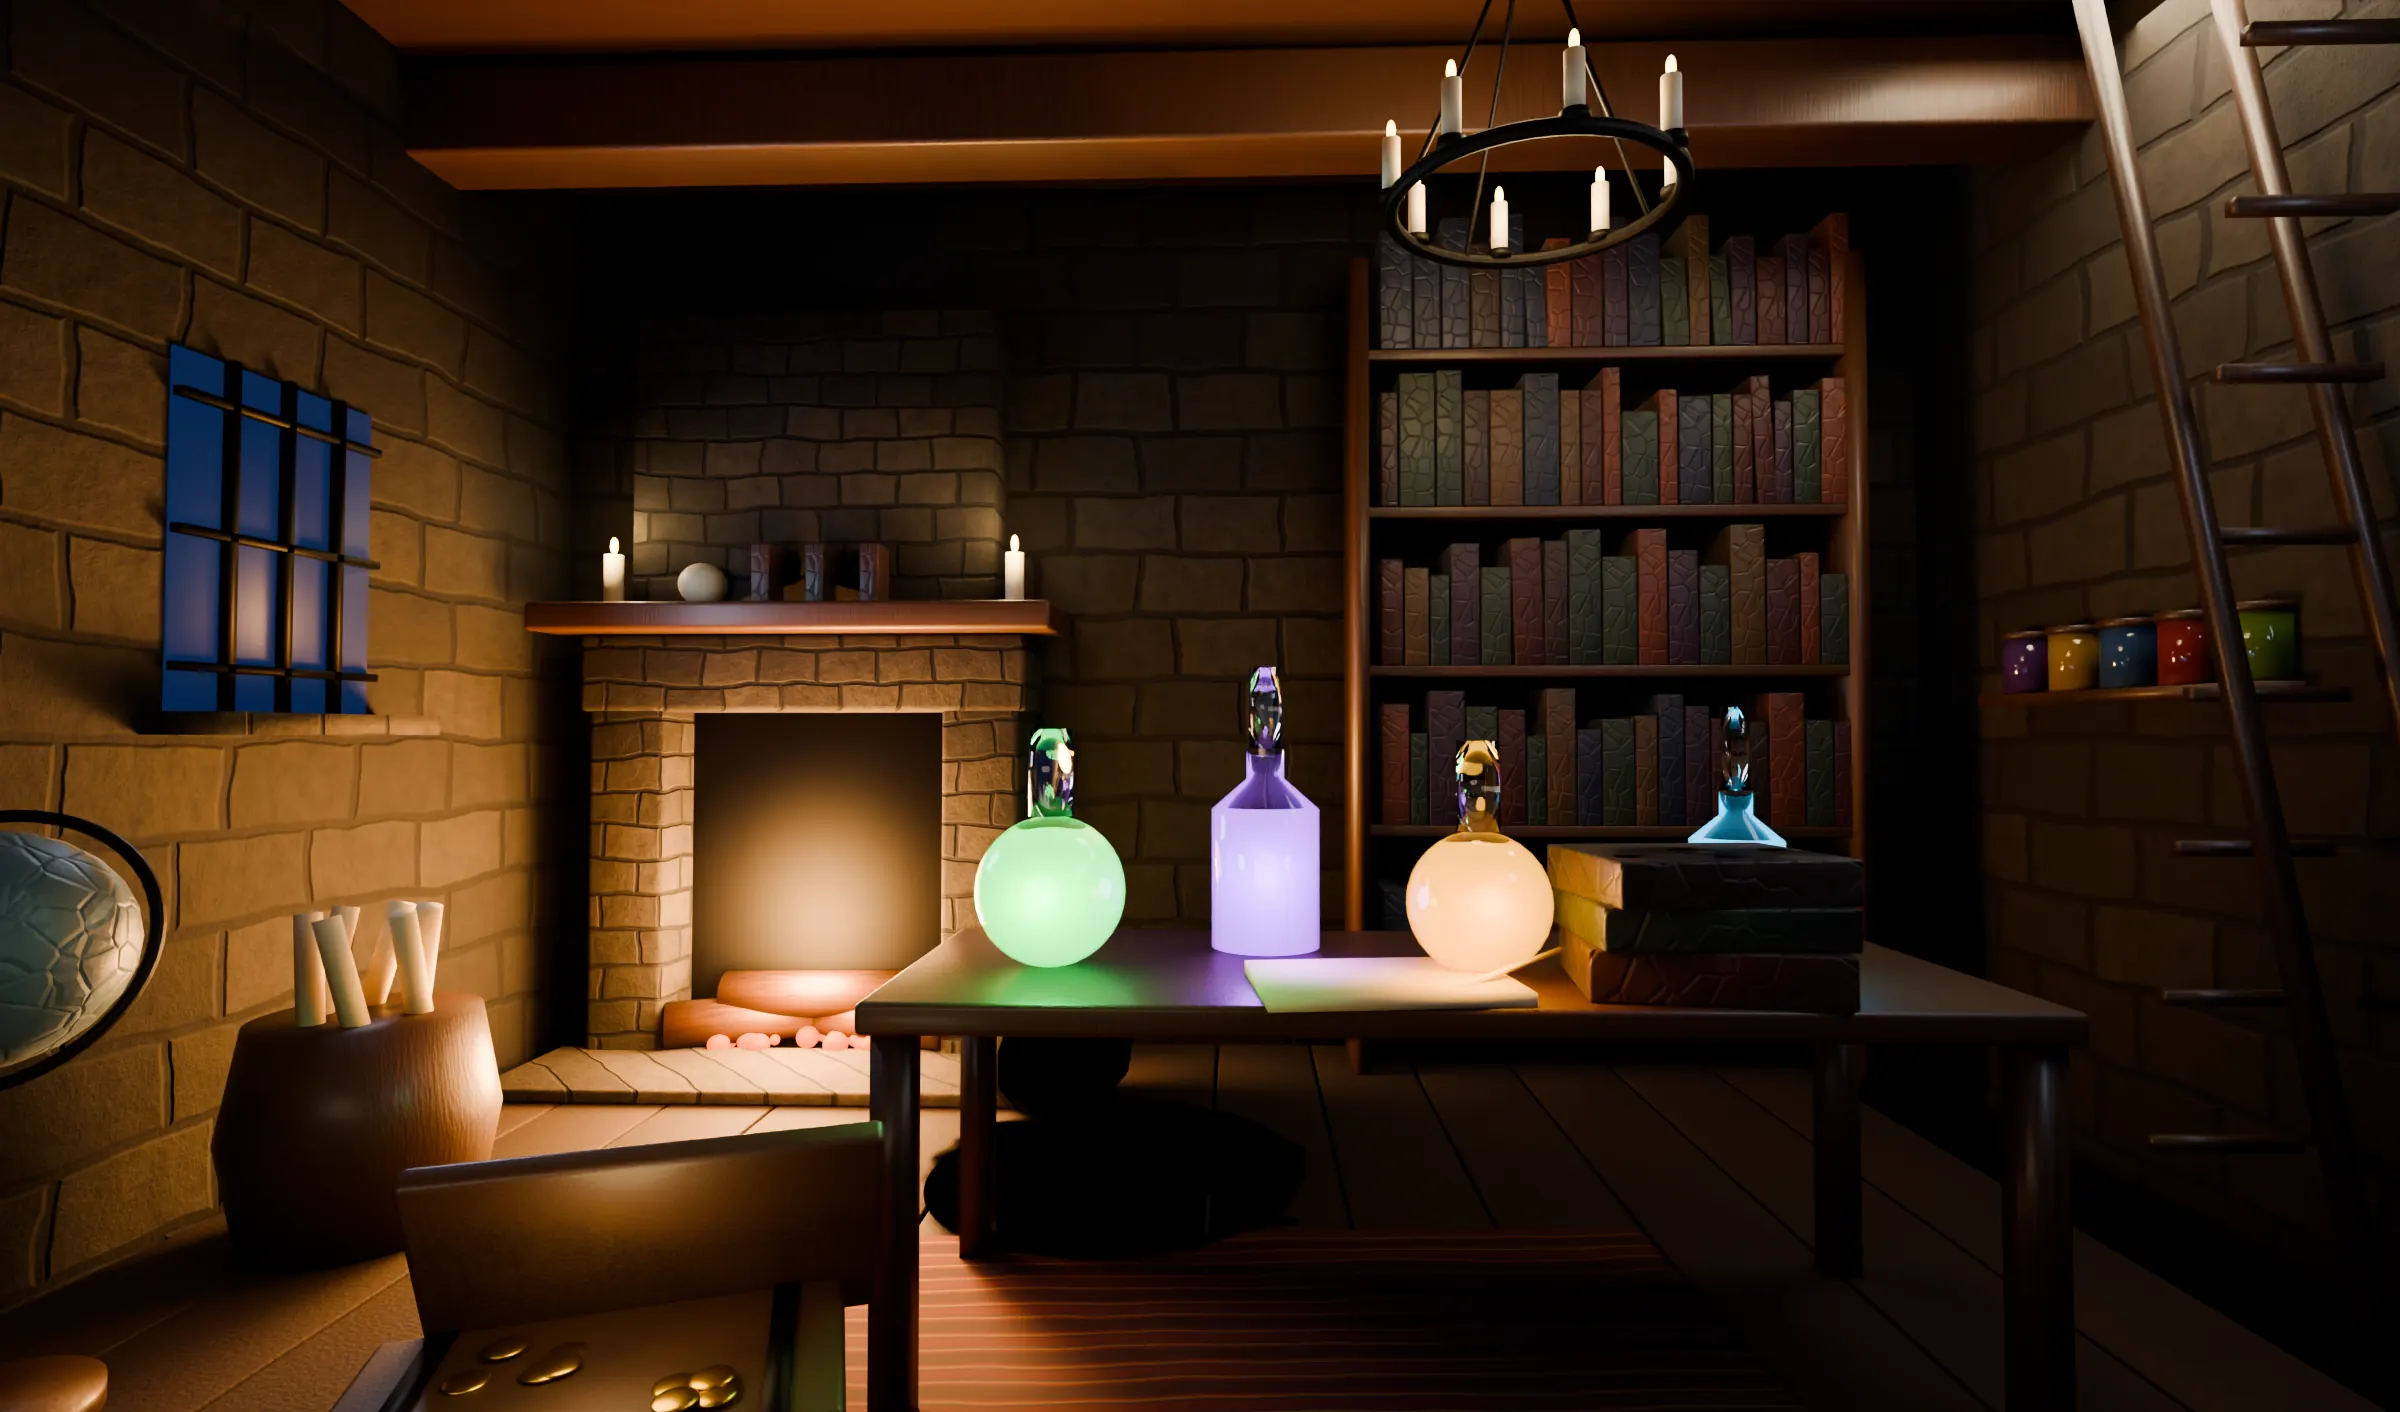
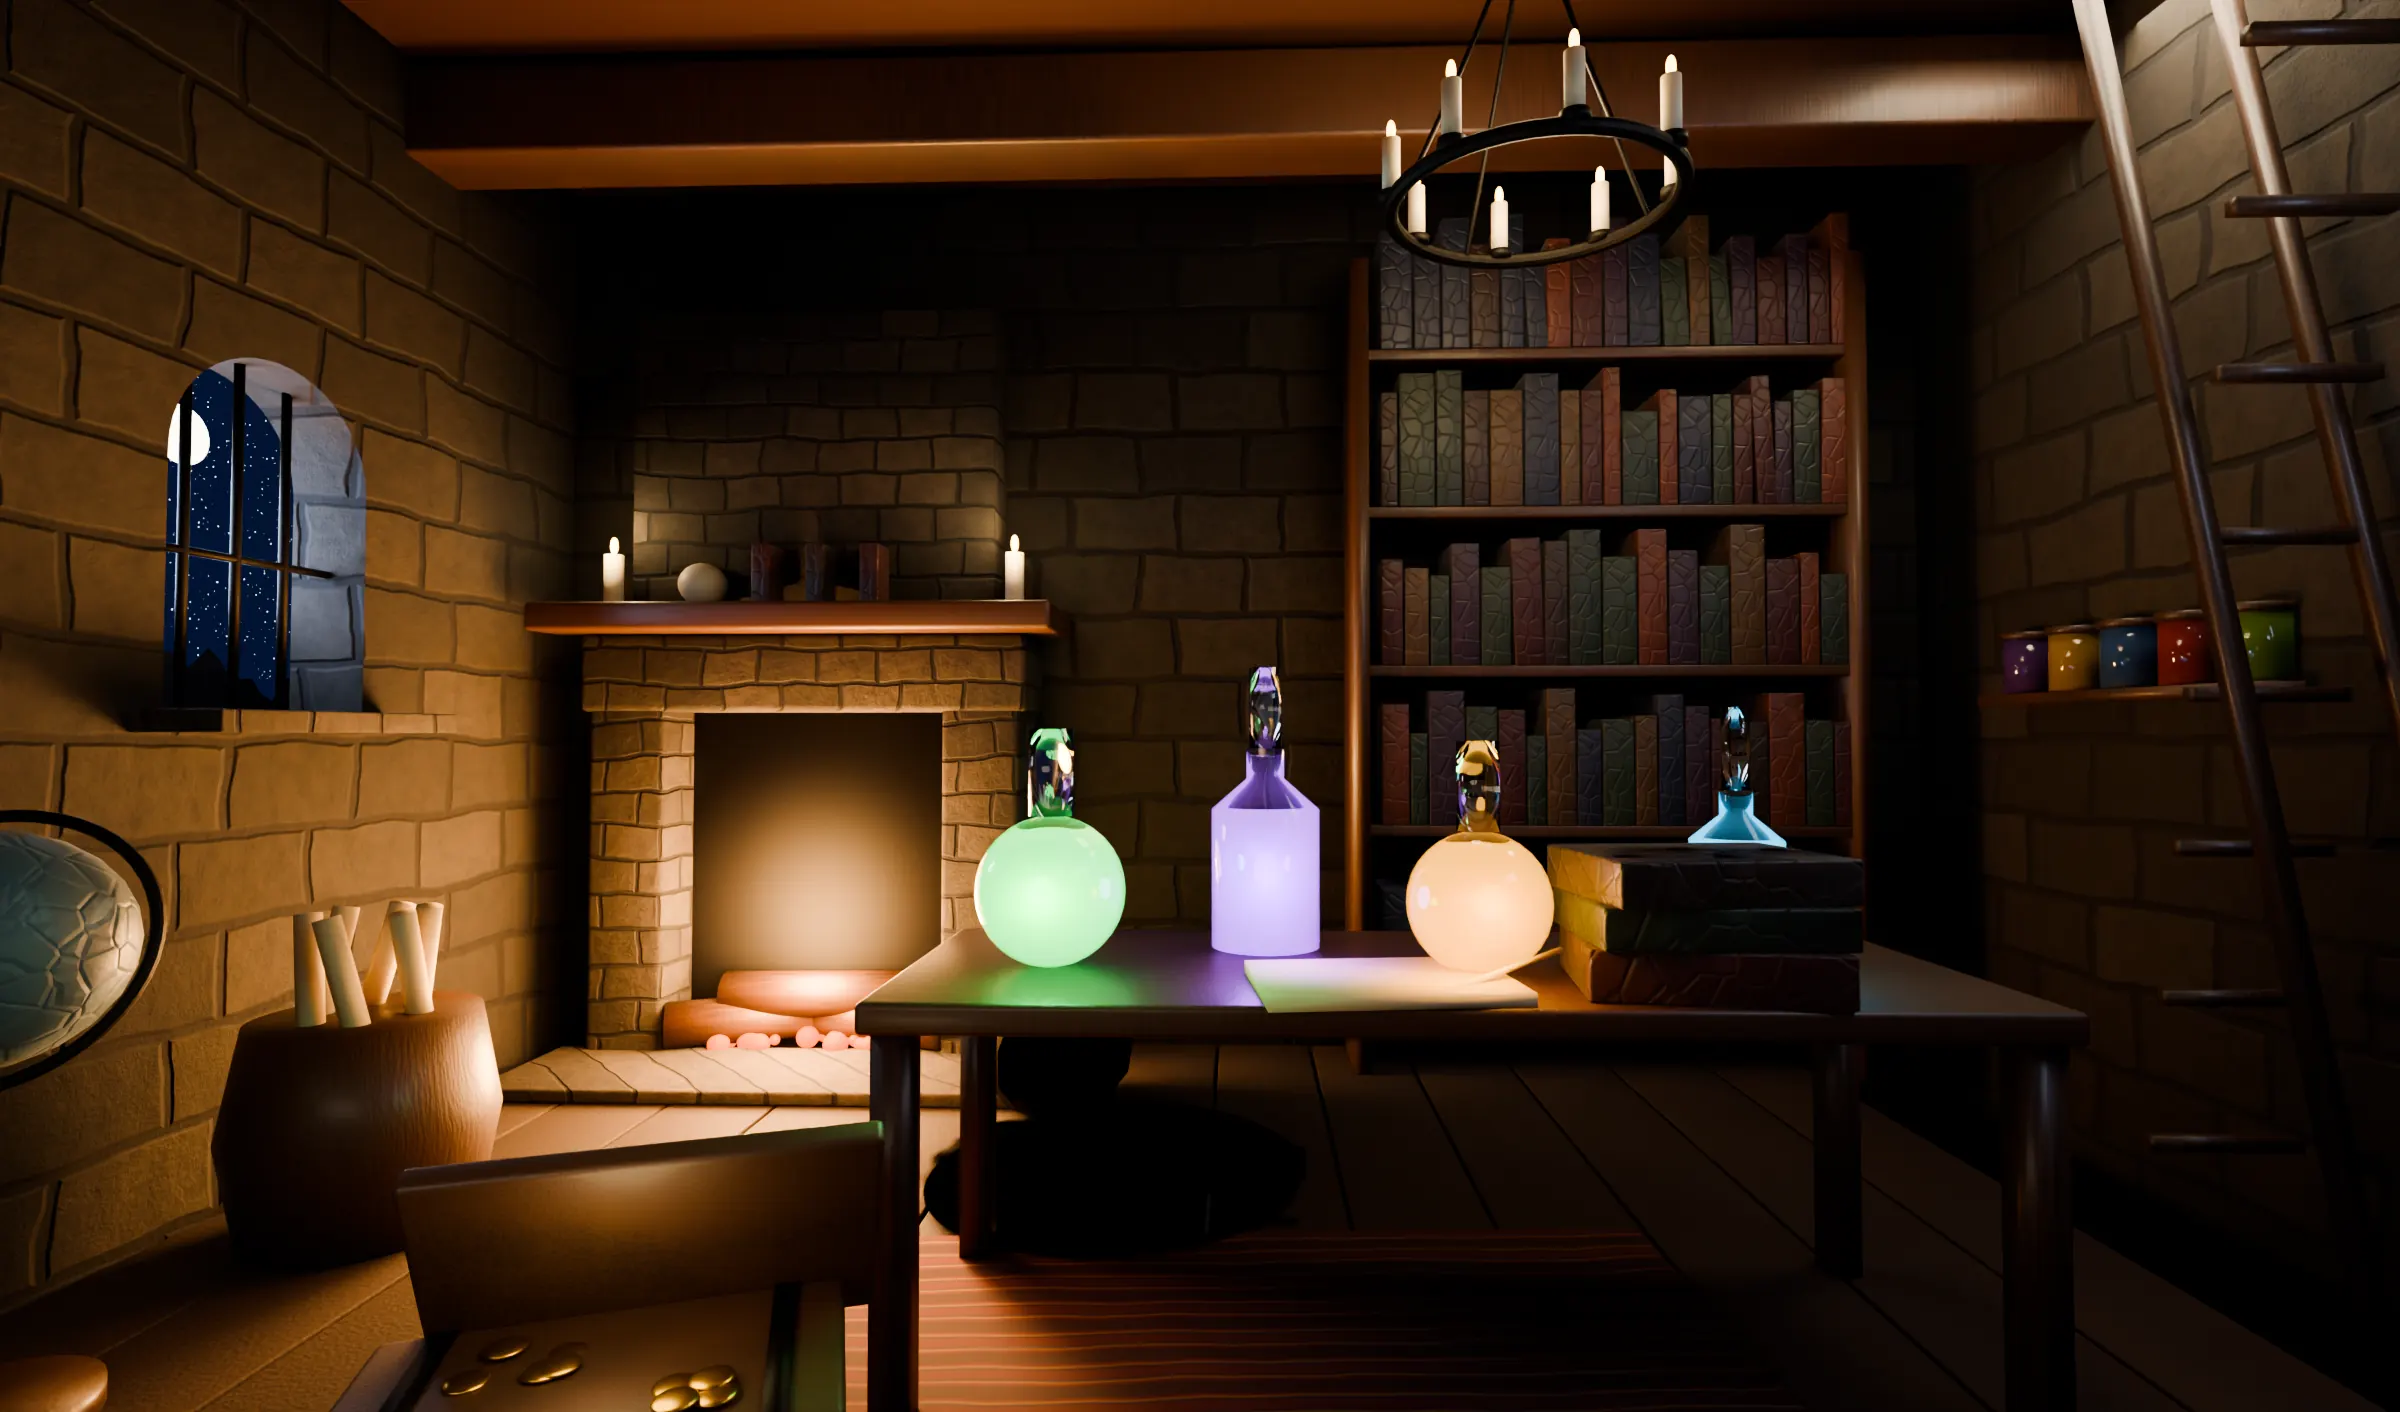
Lair window, a first entrance to the dungeon, and a clearer dungeon title
- The lair's window is now an arched opening cut through the stone wall, with iron bars, a sill,
  a starry night sky with the moon and hills beyond, and moonlight falling through the bars
- The first switch to the dungeon look gets its own entrance: a ring of green arcane fire closes on
  the name, the ember at its centre becomes torchlight, and a ring of fire opens on the dungeon
- In the dungeon look the name is set like an illuminated manuscript: a gilded capital on oxblood
  and the rest in dark ink, larger and further left; it fits narrow phones too

Claude-Session: https://claude.ai/code/session_01AorV6A1RpKrV1UJqfhHdYQ

diff --git a/game.js b/game.js
@@ -1,7 +1,7 @@
 /* Galef's hidden game. Loaded on demand by index.html the first time the game needs it, so it costs the app nothing until then.
    It uses the app's own helpers (S, $, save, render, openSheet, closeSheet, toast, game, saveGame, ...). */
 /* global S, $, esc, norm, uid, clone, save, render, openSheet, closeSheet, toast, cleanItem, live,
-   game, gHas, saveGame, gCandidates, gLinesFetch, gLineGaveUp, gFallbackLine, canAsk, lookNow, setLook, openLooks, LS */
+   game, gHas, saveGame, gCandidates, gLinesFetch, gLineGaveUp, gFallbackLine, canAsk, lookBadge, lookNow, setLook, openLooks, LS */
 
 const IMG = n => `look/${n}.webp`;
 const wait = ms => new Promise(r => setTimeout(r, ms));
@@ -166,6 +166,7 @@ const ease = t => 1 - Math.pow(1 - t, 3);
 .gpstage .gbot .spr{filter:saturate(1.15) contrast(1.08) drop-shadow(0 14px 18px rgba(0,0,0,.55))}
 .gpstage .ring{position:absolute;width:300px;height:130px;margin:-65px 0 0 -150px;border-radius:50%;border:2px solid rgba(210,255,170,.95);pointer-events:none;opacity:0;
   box-shadow:0 0 22px rgba(150,255,110,.85),inset 0 0 22px rgba(150,255,110,.6)}
+.gintro{position:fixed;left:0;top:0;width:100vw;height:100vh;z-index:96;pointer-events:auto}
 #lookBtn.g-imbue{animation:gimbue 3.6s ease-out}
 @keyframes gimbue{0%{filter:drop-shadow(0 1px 0 rgba(0,0,0,.8)) drop-shadow(0 0 10px rgba(170,255,120,.9)) drop-shadow(0 0 26px rgba(90,220,70,.7))}
   100%{filter:drop-shadow(0 1px 0 rgba(0,0,0,.8)) drop-shadow(0 0 10px rgba(240,200,120,.12))}}
@@ -927,6 +928,74 @@ function pourShow(t, P) {
       st.remove(); done();
     }
   });
+}
+
+/* ---------- the first step into the dungeon ----------
+   A ring of green arcane fire closes in on the name, the world goes dark, the ember left at the centre turns to torchlight,
+   and a ring of fire opens out again on the dungeon. Only the first time; after that the name just switches. */
+export async function dungeonIntro() {
+  const t = $("#lookBtn"), VW = innerWidth, VH = innerHeight, DPR = Math.min(2, devicePixelRatio || 1);
+  const r = t.getBoundingClientRect(), C = { x: r.left + r.width / 2, y: r.top + r.height / 2 };
+  const cv = document.createElement("canvas"); cv.className = "gintro"; cv.width = VW * DPR; cv.height = VH * DPR;
+  document.body.appendChild(cv); const ctx = cv.getContext("2d"); ctx.scale(DPR, DPR);
+  const Rmax = Math.max(...[[0, 0], [VW, 0], [0, VH], [VW, VH]].map(([x, y]) => Math.hypot(x - C.x, y - C.y))) + 60;
+  const GREEN = ["255,255,235", "150,255,110", "40,150,30"], FIRE = ["255,248,215", "255,170,60", "205,60,12"];
+  const parts = []; const R = (a, b) => a + Math.random() * (b - a);
+  const T1 = 1050, T2 = T1 + 520, T3 = T2 + 1350;   // closing, dark, opening
+  let swapped = false, swapDone = null;
+  const ringPath = (rad, T, k) => { const pts = []; const n = 160;
+    for (let i = 0; i < n; i++) { const a = i / n * Math.PI * 2;
+      const w = 1 + k * (0.035 * Math.sin(5 * a + T / 300) + 0.025 * Math.sin(11 * a - T / 190) + 0.015 * Math.sin(23 * a + T / 120));
+      pts.push([C.x + Math.cos(a) * rad * w, C.y + Math.sin(a) * rad * w]); }
+    return pts; };
+  const T0 = performance.now(); let last = T0;
+  await new Promise(done => {
+    const step = now => {
+      const T = now - T0, dt = Math.min(0.033, (now - last) / 1000); last = now;
+      let rad, col, k = 1, fade = 1;
+      if (T < T1) { const p = T / T1; rad = Rmax * Math.pow(1 - p, 1.6); col = GREEN; }
+      else if (T < T2) { rad = 0; col = (T - T1) / (T2 - T1) > 0.5 ? FIRE : GREEN; }
+      else { const p = Math.min(1, (T - T2) / (T3 - T2)); rad = Rmax * (1 - Math.pow(1 - p, 2.4)); col = FIRE; fade = p > 0.85 ? 1 - (p - 0.85) / 0.15 : 1; }
+      if (T >= T1 && !swapped) { swapped = true; setLook("classic"); swapDone = (async () => { try { await document.fonts.ready; } catch (_) {} })(); }
+      // flames licking off the edge, and embers
+      const pts = rad > 2 ? ringPath(rad, T, k) : null;
+      if (pts) for (let i = 0; i < 26; i++) { const q = pts[Math.floor(Math.random() * pts.length)], dx = q[0] - C.x, dy = q[1] - C.y, d = Math.hypot(dx, dy) || 1;
+        const out = T < T1 ? -1 : 1;
+        parts.push({ x: q[0], y: q[1], vx: dx / d * R(20, 90) * out + R(-20, 20), vy: dy / d * R(20, 90) * out - R(30, 90), life: 0, max: R(0.25, 0.6), s: R(5, 13), c: col, ember: Math.random() < 0.12 }); }
+      if (T >= T1 && T < T2) { for (let i = 0; i < 4; i++) parts.push({ x: C.x + R(-4, 4), y: C.y + R(-4, 4), vx: R(-40, 40), vy: R(-80, -20), life: 0, max: R(0.3, 0.7), s: R(4, 9), c: col, ember: false }); }
+      for (const q of parts) { q.life += dt; q.x += q.vx * dt; q.y += q.vy * dt; q.vy -= 40 * dt; }
+      for (let i = parts.length - 1; i >= 0; i--) if (parts[i].life > parts[i].max) parts.splice(i, 1);
+      ctx.clearRect(0, 0, VW, VH);
+      ctx.save(); ctx.globalAlpha = fade;
+      // the dark, outside the ring (closing) or still waiting outside it (opening)
+      ctx.beginPath(); ctx.rect(0, 0, VW, VH);
+      if (pts) { ctx.moveTo(pts[0][0], pts[0][1]); for (const q of pts) ctx.lineTo(q[0], q[1]); ctx.closePath(); }
+      ctx.fillStyle = "#050302"; ctx.fill("evenodd");
+      if (pts) {     // the burning edge
+        for (const [w, a, blur, ci] of [[26, 0.22, 30, 2], [12, 0.55, 16, 1], [4, 0.95, 6, 0], [1.5, 1, 0, 0]]) {
+          ctx.beginPath(); ctx.moveTo(pts[0][0], pts[0][1]); for (const q of pts) ctx.lineTo(q[0], q[1]); ctx.closePath();
+          ctx.lineWidth = w; ctx.strokeStyle = `rgba(${col[ci]},${a})`; ctx.shadowColor = `rgba(${col[1]},.9)`; ctx.shadowBlur = blur; ctx.stroke(); }
+        ctx.shadowBlur = 0;
+      }
+      if (T >= T1 && T < T2 + 250) {   // the ember at the centre
+        const p = Math.min(1, (T - T1) / (T2 - T1)), pulse = 0.6 + 0.4 * Math.sin(T / 60), rr = 10 + 26 * p * pulse;
+        const g = ctx.createRadialGradient(C.x, C.y, 0, C.x, C.y, rr); g.addColorStop(0, `rgba(${col[0]},1)`); g.addColorStop(0.35, `rgba(${col[1]},.8)`); g.addColorStop(1, `rgba(${col[2]},0)`);
+        ctx.fillStyle = g; ctx.beginPath(); ctx.arc(C.x, C.y, rr, 0, 7); ctx.fill();
+      }
+      ctx.globalCompositeOperation = "lighter";
+      for (const q of parts) { const a = 1 - q.life / q.max, sz = q.s * (q.ember ? 0.35 : a);
+        const g = ctx.createRadialGradient(q.x, q.y, 0, q.x, q.y, sz); g.addColorStop(0, `rgba(${q.c[0]},${a})`); g.addColorStop(0.4, `rgba(${q.c[1]},${a * 0.7})`); g.addColorStop(1, `rgba(${q.c[2]},0)`);
+        ctx.fillStyle = g; ctx.beginPath(); ctx.arc(q.x, q.y, sz, 0, 7); ctx.fill(); }
+      ctx.restore();
+      if (T < T3) requestAnimationFrame(step); else done();
+    };
+    requestAnimationFrame(step);
+  });
+  if (swapDone) await swapDone;
+  cv.remove();
+  if (!swapped) setLook("classic");
+  await saveGame({ seenDungeon: true });
+  lookBadge("classic");
 }
 
 /* ---------- testing: jump straight to a step ---------- */

diff --git a/index.html b/index.html
@@ -659,7 +659,17 @@ html[data-look="classic"] body::before{background:#1c1008}
 html[data-look="classic"] .top{background:linear-gradient(rgba(16,8,3,.55),rgba(16,8,3,.7)),url(look/c-wall.webp) 0 0/260px auto;box-shadow:0 8px 16px rgba(0,0,0,.6)}
 html[data-look="classic"] .top::after{height:8px;border-top:0;background:linear-gradient(#3a2412,#1a0e06)}
 html[data-look="classic"] .top-row{min-height:78px;margin:0 -10px;padding:6px 34px 10px;border-style:solid;border-width:0 24px;border-color:transparent;border-image:url(look/c-scroll.webp) 0 64 fill/0 24px stretch}
-html[data-look="classic"] .top h1{font-family:var(--display);font-size:33px;color:#8A1A12;text-shadow:0 1px 0 rgba(255,236,190,.45),0 0 1px rgba(60,10,4,.6)}
+html[data-look="classic"] .top-row{padding-left:12px}
+/* the name, as in an illuminated manuscript: a gilded capital on oxblood, then the rest in dark iron-gall ink */
+html[data-look="classic"] .top h1{flex:none;font-family:var(--display);font-size:34px;line-height:1;color:#2A1206;letter-spacing:.005em;
+  text-shadow:0 1px 0 rgba(255,240,200,.45),0 0 1px rgba(42,18,6,.55)}
+html[data-look="classic"] #lookBtn{display:inline-block;padding:2px 0}
+@media (max-width:384px){html[data-look="classic"] .top-row{padding-right:22px}html[data-look="classic"] .brand{gap:6px}html[data-look="classic"] .top h1{font-size:27px}html[data-look="classic"] #lookBtn::first-letter{font-size:24px;line-height:33px;padding:0 6px}}
+html[data-look="classic"] #lookBtn::first-letter{float:left;font-family:"Cinzel",var(--display);font-weight:900;font-size:30px;line-height:41px;
+  padding:0 8px;margin:-1px 4px 0 0;color:#F6D77A;
+  background:radial-gradient(circle at 50% 40%,#9c2016,#6a0f09 70%,#4a0905);border:2px solid #C9963A;border-radius:2px;
+  box-shadow:inset 0 0 0 1px rgba(255,220,140,.35),inset 0 0 8px rgba(0,0,0,.55),0 1px 2px rgba(0,0,0,.5);
+  text-shadow:0 1px 0 #6a3a08,0 0 6px rgba(255,200,90,.55)}
 html[data-look="classic"] #menuBtn{background:none;border:0;color:#3A1E0A;width:30px}
 html[data-look="classic"] #addBtn{width:58px;height:58px;padding:0;margin:-6px -14px -6px 0;border:0;border-radius:50%;background:url(look/c-seal.webp) center/100% 100% no-repeat;box-shadow:none;font-size:0;color:transparent;text-shadow:none;position:relative}
 html[data-look="classic"] #addBtn::before{content:"+";font:400 30px/1 var(--display);color:#F6D896;text-shadow:0 1px 2px rgba(40,0,0,.8);position:absolute;inset:0;display:grid;place-items:center;padding-bottom:3px}
@@ -1965,7 +1975,10 @@ function wonLooks(){const g=S.records.get("game");let w=g&&Array.isArray(g.won)?
 function openLooks(){if(!LOOKS_LOCKED)return LOOKS;const won=wonLooks();return LOOKS.filter(l=>l==="real"||won.includes(l));}
 function lookNow(){const l=document.documentElement.dataset.look;return openLooks().includes(l)?l:"real";}
 function setLook(l){if(!openLooks().includes(l))l="real";document.documentElement.dataset.look=l;LS.set("study-look",l);_fit.clear();render();}
-function nextLook(){const o=openLooks();if(o.length<2)return;const n=o[(o.indexOf(lookNow())+1)%o.length];setLook(n);lookBadge(n);}
+function nextLook(){const o=openLooks();if(o.length<2)return;const n=o[(o.indexOf(lookNow())+1)%o.length];
+  // the very first step into the dungeon gets its own entrance
+  if(n==="classic"&&!game().seenDungeon&&!matchMedia("(prefers-reduced-motion: reduce)").matches)return gameDo("dungeonIntro");
+  setLook(n);lookBadge(n);}
 // The look's name, shown as a small plaque in that look's own style; it glows in, holds, and fades away by itself.
 function lookBadge(l){
   let b=$("#lookBadge");if(b)b.remove();

diff --git a/sw.js b/sw.js
@@ -2,7 +2,7 @@
 // The page itself: newest version first when online (so updates show on the next open), saved copy otherwise.
 // Everything else (look images, fonts, icons) is saved on the phone at install and served from there:
 // each release has a new VERSION, which re-downloads them once, so they're never fetched on a normal open.
-const VERSION = "study-v34";
+const VERSION = "study-v35";
 const COVERS = "study-covers"; // cover pictures from Open Library / Google Books, kept across updates
 const COVER_URL = /^https:\/\/(covers\.openlibrary\.org\/b\/|books\.google\.com\/books\/content|books\.googleusercontent\.com\/)/;
 const FILES = [
